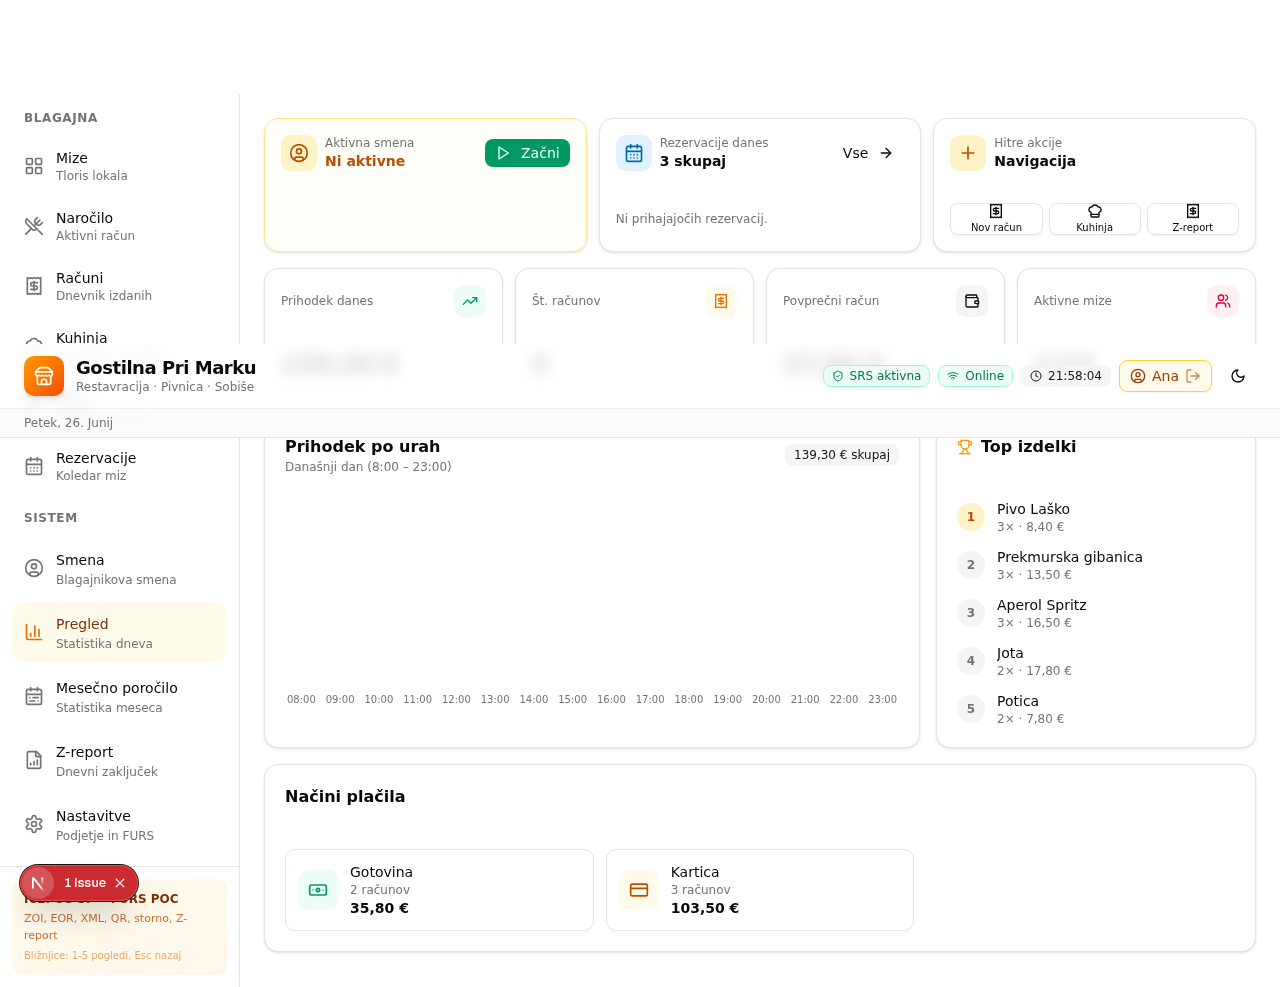
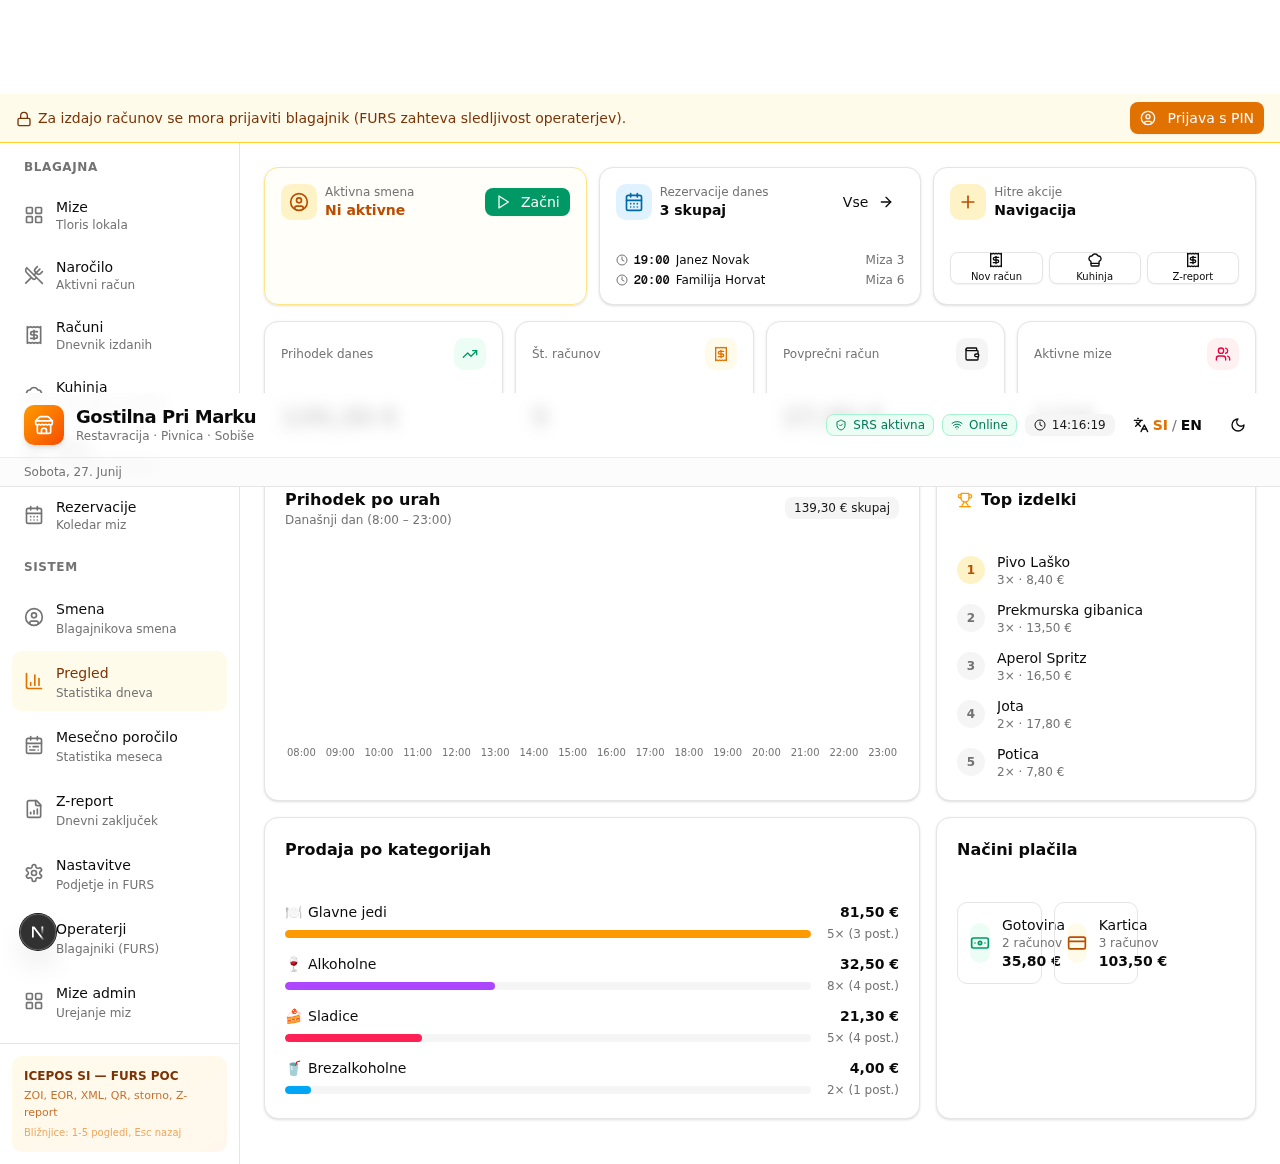
d73eb252-7031-49ac-a299-0381b8113f09

diff --git a/src/components/pos/dashboard-view.tsx b/src/components/pos/dashboard-view.tsx
@@ -161,9 +161,13 @@ export function DashboardView() {
         </Card>
       </div>
 
-      {/* Delitev plačil */}
-      <Card className="p-5">
-        <h3 className="mb-4">Načini plačila</h3>
+      {/* Statistika po kategorijah + Načini plačila */}
+      <div className="grid gap-4 lg:grid-cols-3">
+        <CategoryBreakdown categories={data.categoryStats} />
+
+        {/* Delitev plačil */}
+        <Card className="p-5">
+          <h3 className="mb-4">Načini plačila</h3>
         {data.paymentSplit.length === 0 ? (
           <div className="flex flex-col items-center gap-2 py-6 text-center">
             <Wallet className="h-8 w-8 text-muted-foreground/40" />
@@ -206,7 +210,68 @@ export function DashboardView() {
           </div>
         )}
       </Card>
+      </div>
     </div>
+  );
+}
+
+function CategoryBreakdown({
+  categories,
+}: {
+  categories: { category: string; count: number; revenue: number; items: number }[];
+}) {
+  const categoryLabels: Record<string, { label: string; icon: string; color: string }> = {
+    predjedi: { label: "Predjedi", icon: "🥗", color: "bg-emerald-500" },
+    glavne_jedi: { label: "Glavne jedi", icon: "🍽", color: "bg-amber-500" },
+    sladice: { label: "Sladice", icon: "🍰", color: "bg-rose-500" },
+    brezalkoholne: { label: "Brezalkoholne", icon: "🥤", color: "bg-sky-500" },
+    alkoholne: { label: "Alkoholne", icon: "🍷", color: "bg-purple-500" },
+  };
+
+  const maxRevenue = Math.max(...categories.map((c) => c.revenue), 1);
+
+  return (
+    <Card className="p-5 lg:col-span-2">
+      <h3 className="mb-4 font-bold">Prodaja po kategorijah</h3>
+      {categories.length === 0 ? (
+        <p className="py-6 text-center text-sm text-muted-foreground">
+          Ni prodaje danes.
+        </p>
+      ) : (
+        <div className="space-y-3">
+          {categories.map((cat) => {
+            const cfg = categoryLabels[cat.category] || {
+              label: cat.category,
+              icon: "🍴",
+              color: "bg-neutral-500",
+            };
+            const pct = (cat.revenue / maxRevenue) * 100;
+            return (
+              <div key={cat.category}>
+                <div className="mb-1 flex items-center justify-between text-sm">
+                  <span className="flex items-center gap-1.5 font-medium">
+                    <span>{cfg.icon}</span>
+                    {cfg.label}
+                  </span>
+                  <span className="font-bold">{formatEUR(cat.revenue)}</span>
+                </div>
+                <div className="flex items-center gap-2">
+                  <div className="h-2 flex-1 overflow-hidden rounded-full bg-muted">
+                    <div
+                      className={cn("h-full rounded-full transition-all", cfg.color)}
+                      style={{ width: `${pct}%` }}
+                    />
+                  </div>
+                  <span className="w-20 text-right text-xs text-muted-foreground">
+                    {cat.count}× ({cat.items} post.)
+                  </span>
+                </div>
+              </div>
+            );
+          })}
+        </div>
+      )}
+    </Card>
   );
 }
 

diff --git a/src/components/pos/order-view.tsx b/src/components/pos/order-view.tsx
@@ -35,6 +35,7 @@ import {
   ChefHat,
   ArrowRightLeft,
   Star,
+  RotateCcw,
 } from "lucide-react";
 import {
   Dialog,
@@ -706,6 +707,46 @@ export function OrderView() {
               className="mt-2 w-full rounded py-1 text-center text-xs text-muted-foreground transition-colors hover:text-destructive focus-visible:outline-none focus-visible:ring-2 focus-visible:ring-ring"
             >
               Počisti voziček
+            </button>
+          )}
+
+          {/* Ponovi zadnje naročilo */}
+          {cart.length === 0 && (
+            <button
+              onClick={async () => {
+                try {
+                  const res = await fetch("/api/orders/last");
+                  const data = await res.json();
+                  if (!data.order) {
+                    toast.info("Ni prejšnjih naročil");
+                    return;
+                  }
+                  // Dodaj vse postavke v voziček
+                  for (const it of data.order.items) {
+                    if (it.available) {
+                      addCartItem(
+                        {
+                          id: it.menuItemId,
+                          name: it.name,
+                          category: "glavne_jedi", // fallback
+                          price: it.unitPrice,
+                          vatRate: 0.095, // fallback
+                          available: true,
+                          createdAt: "",
+                        } as MenuItem,
+                        it.quantity
+                      );
+                    }
+                  }
+                  toast.success(`Ponovljeno: ${data.order.tableName} (${data.order.items.length} postavk)`);
+                } catch {
+                  toast.error("Napaka pri ponavljanju naročila");
+                }
+              }}
+              className="mt-2 flex w-full items-center justify-center gap-1.5 rounded-md border border-sky-200 bg-sky-50 py-1.5 text-xs font-medium text-sky-700 transition-colors hover:bg-sky-100 focus-visible:outline-none focus-visible:ring-2 focus-visible:ring-ring dark:border-sky-800 dark:bg-sky-950/30 dark:text-sky-400 dark:hover:bg-sky-900/30"
+            >
+              <RotateCcw className="h-3 w-3" />
+              Ponovi zadnje naročilo
             </button>
           )}
         </div>

diff --git a/src/app/api/stats/route.ts b/src/app/api/stats/route.ts
@@ -82,6 +82,35 @@ export async function GET() {
       ...v,
     }));
 
+    // Statistika po kategorijah
+    const categoryMap = new Map<string, { count: number; revenue: number; items: number }>();
+    for (const o of paidOrders) {
+      for (const it of o.items) {
+        const cat = it.menuItem.category;
+        const lineRev = it.unitPrice * it.quantity;
+        const existing = categoryMap.get(cat);
+        if (existing) {
+          existing.count += it.quantity;
+          existing.revenue += lineRev;
+          existing.items += 1;
+        } else {
+          categoryMap.set(cat, {
+            count: it.quantity,
+            revenue: lineRev,
+            items: 1,
+          });
+        }
+      }
+    }
+    const categoryStats = [...categoryMap.entries()]
+      .map(([category, v]) => ({
+        category,
+        count: v.count,
+        revenue: Math.round(v.revenue * 100) / 100,
+        items: v.items,
+      }))
+      .sort((a, b) => b.revenue - a.revenue);
+
     return NextResponse.json({
       todayRevenue,
       todayOrders,
@@ -91,6 +120,7 @@ export async function GET() {
       topItems,
       hourly,
       paymentSplit,
+      categoryStats,
     });
   } catch (e) {
     console.error("GET /api/stats error:", e);

diff --git a/src/app/api/orders/last/route.ts b/src/app/api/orders/last/route.ts
@@ -1,0 +1,42 @@
+import { NextResponse } from "next/server";
+import { db } from "@/lib/db";
+
+export const dynamic = "force-dynamic";
+
+// Vrne zadnje plačano naročilo (za quick reorder)
+export async function GET() {
+  try {
+    const lastOrder = await db.order.findFirst({
+      where: { status: "paid" },
+      include: {
+        table: true,
+        items: { include: { menuItem: true } },
+      },
+      orderBy: { paidAt: "desc" },
+    });
+
+    if (!lastOrder) {
+      return NextResponse.json({ order: null });
+    }
+
+    return NextResponse.json({
+      order: {
+        id: lastOrder.id,
+        invoiceNumber: lastOrder.invoiceNumber,
+        tableName: lastOrder.table.name,
+        total: lastOrder.total,
+        paidAt: lastOrder.paidAt,
+        items: lastOrder.items.map((it) => ({
+          menuItemId: it.menuItemId,
+          name: it.menuItem.name,
+          quantity: it.quantity,
+          unitPrice: it.unitPrice,
+          available: it.menuItem.available,
+        })),
+      },
+    });
+  } catch (e) {
+    console.error("GET /api/orders/last error:", e);
+    return NextResponse.json({ error: "Napaka" }, { status: 500 });
+  }
+}

diff --git a/src/lib/types.ts b/src/lib/types.ts
@@ -90,6 +90,12 @@ export interface DashboardStats {
   topItems: { name: string; count: number; revenue: number }[];
   hourly: { hour: string; revenue: number }[];
   paymentSplit: { method: string; count: number; total: number }[];
+  categoryStats: {
+    category: string;
+    count: number;
+    revenue: number;
+    items: number;
+  }[];
 }
 
 export const CATEGORIES: { id: MenuCategory; label: string; icon: string }[] = [

diff --git a/worklog.md b/worklog.md
@@ -596,3 +596,35 @@ Stage Summary:
 - Iskalnik za hitro iskanje mize po imenu/številki
 - Screenshot 01-tables.png posodobljen
 - GitHub repo posodobljen: https://github.com/markec12345678/ICEPOS
+
+---
+Task ID: 16
+Agent: Z.ai Code (main)
+Task: Statistika po kategorijah na dashboardu + hitri ponovitev zadnjega naročila.
+
+Work Log:
+- Backend /api/stats razširjen z categoryStats:
+  * Agregacija po kategorijah (count, revenue, items)
+  * Sortirano po prihodku (najbolj prodajane prve)
+- Backend /api/orders/last — vrne zadnje plačano naročilo (za quick reorder)
+- Dashboard:
+  * Nova kartica "Prodaja po kategorijah" z horizontalnim bar chart
+  * Vsaka kategorija: ikona + label + prihodek + število + postavke
+  * Barve: emerald (predjedi), amber (glavne jedi), rose (sladice), sky (brezalkoholne), purple (alkoholne)
+  * Kartica zavzema 2/3 širine (lg:col-span-2), plačila 1/3
+- OrderView — hitri ponovitev zadnjega naročila:
+  * Gumb "Ponovi zadnje naročilo" (samo ko je voziček prazen)
+  * Fetch-a /api/orders/last, doda vse postavke v voziček
+  * Sky blue barva, RotateCcw ikona
+  * Pogosta operacija v barih (stalne stranke)
+- Lint: 0 errorjev
+- Agent Browser verification:
+  * Kategorije: 4 prikazane (Glavne jedi 81.5€, Alkoholne 32.5€, Sladice 21.3€, Brezalkoholne 4€)
+  * Quick reorder: klik → voziček napolnjen z 6 postavkami iz zadnjega naročila (Terasa 2)
+- Push na GitHub: commit 6b56c61
+
+Stage Summary:
+- 2 novi funkcionalnosti: statistika po kategorijah + quick reorder
+- Dashboard zdaj prikazuje prodajo po kategorijah (lastniki vidijo kaj najbolj prodaja)
+- Blagajnik lahko z enim klikom ponovi zadnje naročilo (pogosto v barih)
+- GitHub repo posodobljen: https://github.com/markec12345678/ICEPOS
